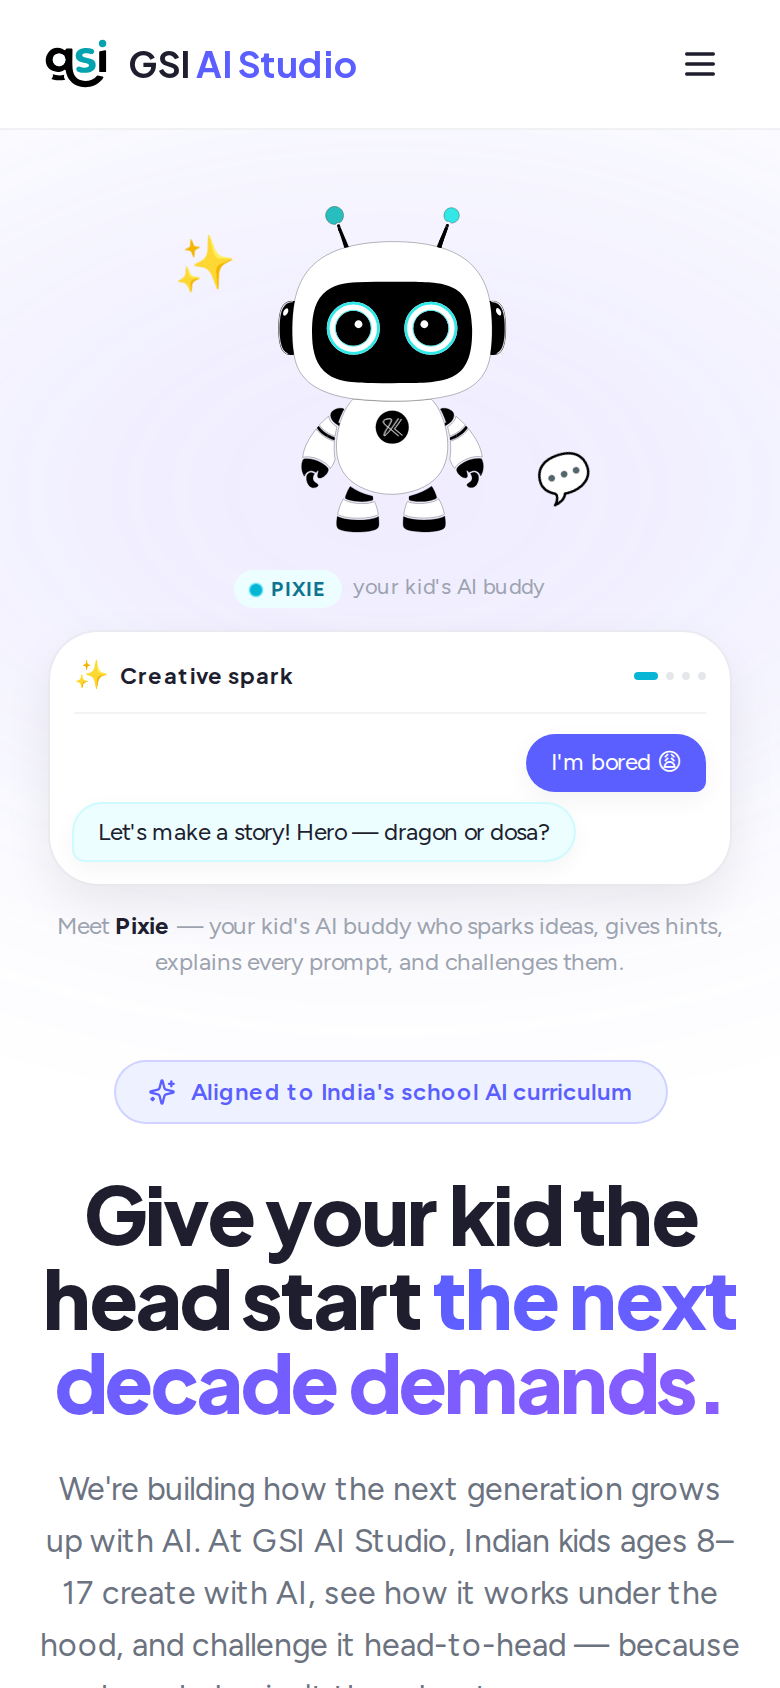
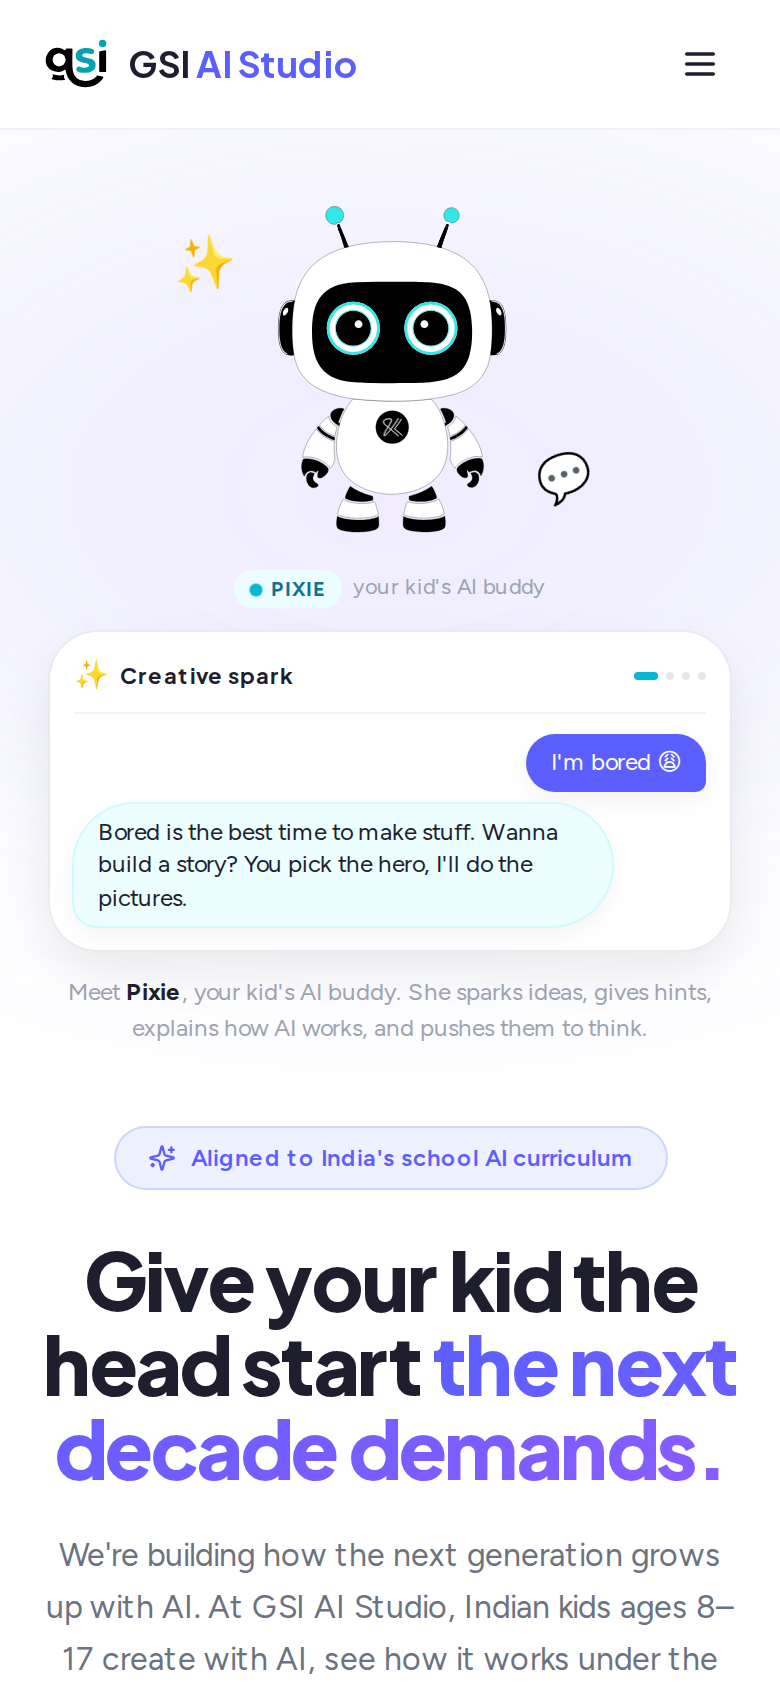
MARKETING-HERO: Pixie demo lines now teach kids, no em dashes
Old lines were thin one-liners with em dashes ("Maths Monday — pick
your champion") that didn't show Pixie actually helping. Rewrite each
scene so Pixie sounds like a buddy who's really teaching, in a
kid-friendly voice with no em dashes.

- Creative spark: "Bored is the best time to make stuff. Wanna build
  a story? You pick the hero, I'll do the pictures." (was: "Hero —
  dragon or dosa?")
- Homework hints: "I never give answers, only hints. Start with
  27 × 10. What's that?" (was: "Try 27 × 10 first. What do you get?"
  — adds the "I never give answers" rule explicitly so the kid sees
  Pixie's teaching contract)
- AI X-Ray: "I sent your idea to an AI artist that paints with words.
  Tap X-Ray and I'll show you which words made the wings." (was:
  "Replicate SDXL turned your prompt into pixels" — replaces the
  technical brand name with kid-language explanation)
- Beat the AI: "It's Maths Monday. Same problem, you and me. The
  clearer answer wins." (was: "Pick your champion 🤖" — describes
  the rules instead of using gamey jargon)

Also fixed:
- Scene 2 label "Homework — hints, not answers" → "Homework hints,
  not answers" (drops em dash)
- Caption "Meet Pixie — your kid's AI buddy who sparks..." →
  "Meet Pixie, your kid's AI buddy. She sparks..."

Changed region(s): [[0.0615, 0.4621, 0.9538, 1.0], [0.4, 0.1232, 0.4308, 0.154]]

diff --git a/components/marketing/Hero.tsx b/components/marketing/Hero.tsx
@@ -175,16 +175,22 @@ const PIXIE_DEMO_SCENES: ChatScene[] = [
     badge: '✨',
     messages: [
       { from: 'kid', text: "I'm bored 😩" },
-      { from: 'pixie', text: "Let's make a story! Hero — dragon or dosa?" },
+      {
+        from: 'pixie',
+        text: "Bored is the best time to make stuff. Wanna build a story? You pick the hero, I'll do the pictures.",
+      },
     ],
   },
   {
     id: 'homework',
-    label: 'Homework — hints, not answers',
+    label: 'Homework hints, not answers',
     badge: '📚',
     messages: [
       { from: 'kid', text: 'Stuck on 27 × 13' },
-      { from: 'pixie', text: 'Try 27 × 10 first. What do you get?' },
+      {
+        from: 'pixie',
+        text: "I never give answers, only hints. Start with 27 × 10. What's that?",
+      },
     ],
   },
   {
@@ -193,7 +199,10 @@ const PIXIE_DEMO_SCENES: ChatScene[] = [
     badge: '🔍',
     messages: [
       { from: 'kid', text: 'How did you make my dragon?' },
-      { from: 'pixie', text: 'Replicate SDXL turned your prompt into pixels — wanna see how?' },
+      {
+        from: 'pixie',
+        text: "I sent your idea to an AI artist that paints with words. Tap X-Ray and I'll show you which words made the wings.",
+      },
     ],
   },
   {
@@ -201,8 +210,11 @@ const PIXIE_DEMO_SCENES: ChatScene[] = [
     label: 'Beat the AI',
     badge: '⚡',
     messages: [
-      { from: 'kid', text: 'Bet I can write better than you' },
-      { from: 'pixie', text: 'Maths Monday — pick your champion 🤖' },
+      { from: 'kid', text: 'Bet I can beat you' },
+      {
+        from: 'pixie',
+        text: "It's Maths Monday. Same problem, you and me. The clearer answer wins.",
+      },
     ],
   },
 ];
@@ -331,7 +343,7 @@ function BrandMascotHero() {
 
       {/* Caption */}
       <p className="text-center text-caption text-brand-text-muted">
-        Meet <span className="font-bold text-brand-text">{mascot.name}</span> — your kid&apos;s AI buddy who sparks ideas, gives hints, explains every prompt, and challenges them.
+        Meet <span className="font-bold text-brand-text">{mascot.name}</span>, your kid&apos;s AI buddy. She sparks ideas, gives hints, explains how AI works, and pushes them to think.
       </p>
     </motion.div>
   );
